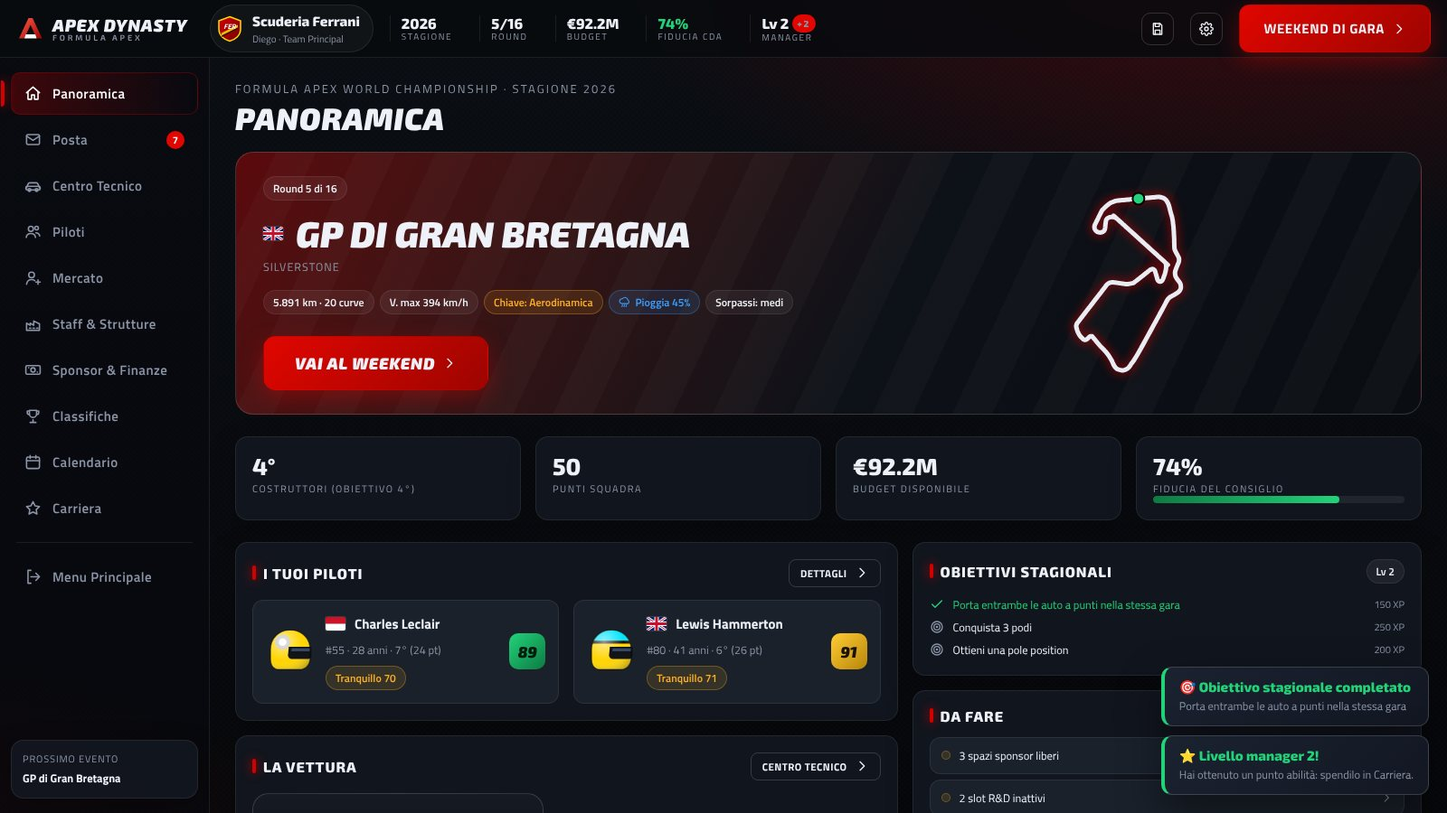
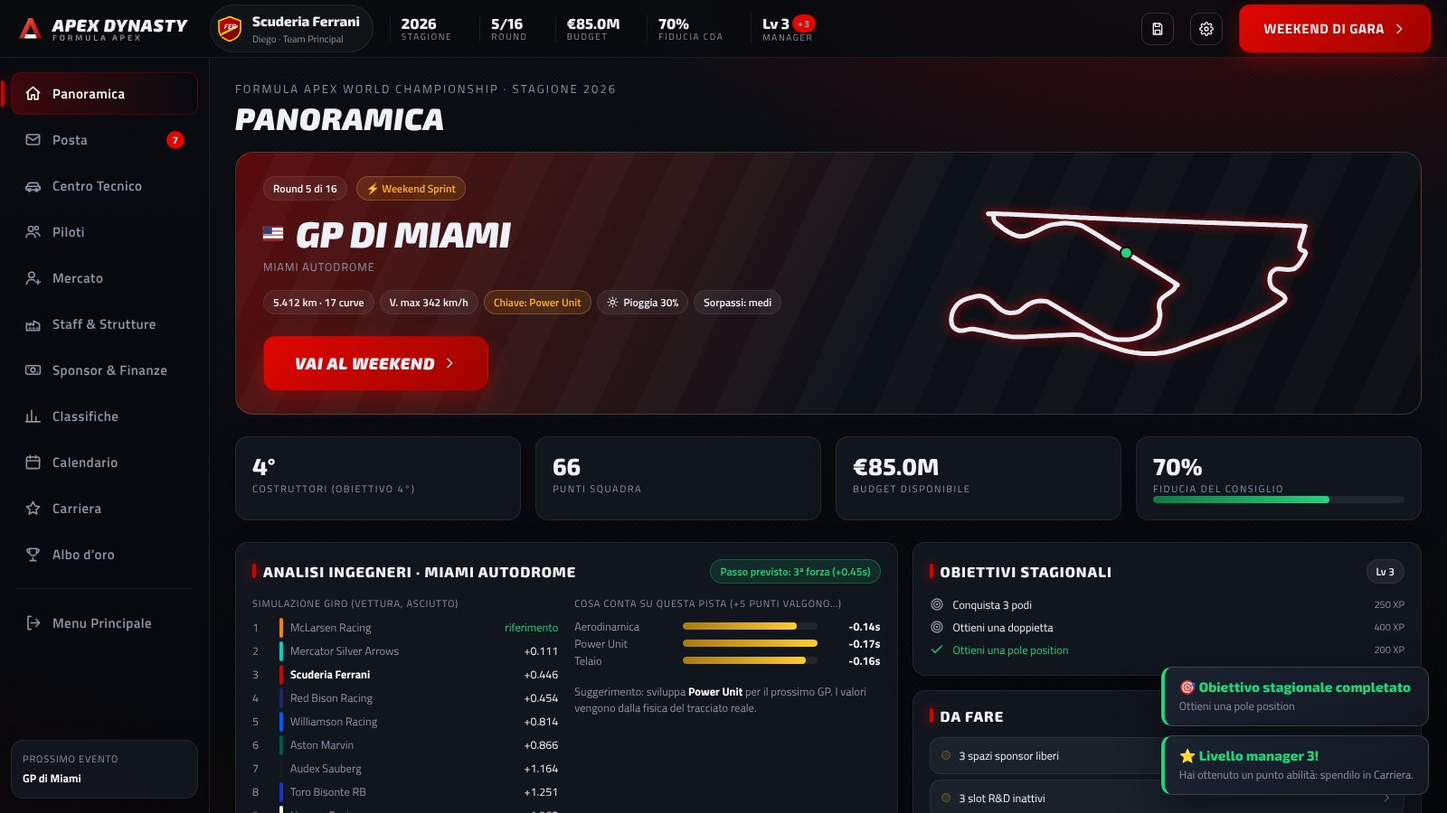
v3.0.0: grafica rifatta (HDRI, PBR, post-processing, nuove vetture), momenti chiave in gara, budget cap e galleria del vento, Formula Apex 2 e carriera dalla gavetta, render 3D nelle schermate
Claude-Session: https://claude.ai/code/session_016m2WYSifcgJTzz2tKjj853

diff --git a/src/screens/newgame.js b/src/screens/newgame.js
@@ -1,3 +1,4 @@
+import { carImg } from '../ui/garage3d.js';
 import { App, registerScreen } from '../app.js';
 import { icon } from '../ui/icons.js';
 import { carSVG, teamBadge, categoryArt, flagSVG, helmetSVG } from '../ui/art.js';
@@ -77,8 +78,8 @@ function step1() {
   return `<div class="cat-cards anim-in">${Object.values(CATEGORIES).map((c) => `
     <div class="cat-card ${W.cat === c.id ? 'sel' : ''}" style="--cc:${c.color}" data-a="pick-cat" data-id="${c.id}">
       <div class="art" style="padding-bottom:120px">${categoryArt(c.id)}</div>
-      <div class="cinfo"><div class="tiny upper" style="color:${c.color};letter-spacing:.25em;font-weight:700">${c.type === 'rally' ? 'Prove speciali' : c.id === 'endurance' ? 'Gare di durata' : 'Monoposto'}</div><h2>${c.name}</h2><div class="small muted mt8">${c.tagline}</div>
-      <div class="row mt16 small wrap" style="gap:6px"><span class="chip">${TEAMS[c.id].length} team</span><span class="chip">${c.cars} auto/team</span>${c.driversPerCar > 1 ? `<span class="chip">${c.driversPerCar} piloti/auto</span>` : ''}${c.refuel ? '<span class="chip">Rifornimenti</span>' : ''}${c.type === 'rally' ? '<span class="chip">Decisioni live</span>' : '<span class="chip">Strategia gomme</span>'}</div></div>
+      <div class="cinfo"><div class="tiny upper" style="color:${c.color};letter-spacing:.25em;font-weight:700">${c.id === 'junior' ? '★ Carriera dalla gavetta' : c.type === 'rally' ? 'Prove speciali' : c.id === 'endurance' ? 'Gare di durata' : 'Monoposto'}</div><h2>${c.name}</h2><div class="small muted mt8">${c.tagline}</div>
+      <div class="row mt16 small wrap" style="gap:6px">${c.id === 'junior' ? '<span class="chip good">Vinci per salire in Formula Apex</span>' : ''}<span class="chip">${TEAMS[c.id].length} team</span><span class="chip">${c.cars} auto/team</span>${c.driversPerCar > 1 ? `<span class="chip">${c.driversPerCar} piloti/auto</span>` : ''}${c.refuel ? '<span class="chip">Rifornimenti</span>' : ''}${c.type === 'rally' ? '<span class="chip">Decisioni live</span>' : '<span class="chip">Strategia gomme</span>'}</div></div>
     </div>`).join('')}</div>
     <div class="row mt24" style="justify-content:flex-end"><button class="btn primary xl" data-a="next">Scegli la squadra ${icon('right')}</button></div>`;
 }
@@ -92,15 +93,15 @@ function step2() {
     const [lab, cls] = teamStrengthLabel(sel, teams);
     preview = `<div class="panel glow" style="--team:${sel.colors[0] === '#f0f0f0' || sel.colors[0] === '#f2f2f2' || sel.colors[0] === '#f4f4f4' ? sel.colors[1] : sel.colors[0]}">
       <div class="row between"><div class="row">${teamBadge(sel, 46)}<div><h2>${sel.name}</h2><div class="small muted">${sel.hq} · Team Principal attuale: ${sel.principal}</div></div></div><span class="chip ${cls}">${lab}</span></div>
-      <div class="car-stage mt16" style="min-height:220px"><div class="grid-floor"></div>${carSVG(W.cat, { primary: sel.colors[0], secondary: sel.colors[1], accent: sel.colors[2], pattern: 1 }, { number: '', sponsor: sel.short })}</div>
+      <div class="car-stage mt16" style="min-height:220px"><div class="grid-floor"></div>${carImg(W.cat, { primary: sel.colors[0], secondary: sel.colors[1], accent: sel.colors[2], pattern: 1 }, { number: '', sponsor: sel.short })}</div>
       <div class="grid3 mt16"><div class="kpi"><b>${sel.base}</b><span>Valore vettura</span></div><div class="kpi"><b>€${sel.budget}M</b><span>Budget</span></div><div class="kpi"><b class="stars">${stars(sel.rep / 20)}</b><span>Prestigio</span></div></div>
-      <h3 class="mt16 mb8">Piloti</h3><div class="col" style="gap:6px">${sel.d.map((d) => `<div class="row small">${helmetSVG(null, 26)}${flagSVG(d[1])}<b>${d[0]}</b><span class="muted">${d[2]} anni</span><span class="grow"></span><span class="chip">Velocità ${d[3]}</span></div>`).join('')}</div>
+      <h3 class="mt16 mb8">Piloti</h3>${sel.gen ? '<div class="small muted">Giovani talenti generati all’inizio della carriera.</div>' : ''}<div class="col" style="gap:6px">${(sel.d || []).map((d) => `<div class="row small">${helmetSVG(null, 26)}${flagSVG(d[1])}<b>${d[0]}</b><span class="muted">${d[2]} anni</span><span class="grow"></span><span class="chip">Velocità ${d[3]}</span></div>`).join('')}</div>
     </div>`;
   } else if (W.team === 'custom') {
     const cu = W.custom;
     preview = `<div class="panel glow" style="--team:${cu.colors[0]}">
       <h2>Fonda la tua squadra</h2><div class="small muted">Prenderai il posto del team più debole, con budget ridotto. La vera sfida.</div>
-      <div class="car-stage mt16" style="min-height:200px"><div class="grid-floor"></div>${carSVG(W.cat, { primary: cu.colors[0], secondary: cu.colors[1], accent: cu.colors[2], pattern: cu.pattern }, { number: '', sponsor: cu.short })}</div>
+      <div class="car-stage mt16" style="min-height:200px"><div class="grid-floor"></div>${carImg(W.cat, { primary: cu.colors[0], secondary: cu.colors[1], accent: cu.colors[2], pattern: cu.pattern }, { number: '', sponsor: cu.short })}</div>
       <div class="grid2 mt16"><div class="col gap6"><label class="lbl">Nome squadra</label><input type="text" id="cname" value="${esc(cu.name)}" maxlength="26"></div><div class="col gap6"><label class="lbl">Sigla (3 lettere)</label><input type="text" id="cshort" value="${esc(cu.short)}" maxlength="3"></div></div>
       ${['Colore primario', 'Colore secondario', 'Dettagli'].map((lab, i) => `<div class="mt16"><label class="lbl">${lab}</label><div class="swatches mt8">${PALETTE.map((c) => `<div class="swatch ${cu.colors[i] === c ? 'sel' : ''}" style="background:${c}" data-a="c-color" data-i="${i}" data-c="${c}"></div>`).join('')}</div></div>`).join('')}
       <div class="mt16"><label class="lbl">Motivo livrea</label><div class="row wrap mt8 gap6">${PATTERNS.map((p, i) => `<button class="btn sm ${cu.pattern === i ? 'active' : ''}" data-a="c-pattern" data-p="${i}">${p}</button>`).join('')}</div></div>

diff --git a/site-src/index.html b/site-src/index.html
@@ -6,7 +6,7 @@
 <title>Apex Dynasty — Motorsport Manager</title>
 <meta name="description" content="Apex Dynasty: il gestionale motorsport multi-categoria. Guida la tua scuderia in Formula, Rally ed Endurance. Gratis per macOS (Apple Silicon e Intel), Windows e browser.">
 <meta property="og:title" content="Apex Dynasty — Motorsport Manager">
-<meta property="og:description" content="Formula · Rally · Endurance. Progetta l'auto, gestisci piloti e strategie, vinci il titolo.">
+<meta property="og:description" content="Formula · F2 · Rally · Endurance. Progetta l'auto, gestisci piloti e strategie, vinci il titolo.">
 <meta property="og:image" content="shots/race.jpg">
 <link rel="icon" href="icon.svg" type="image/svg+xml">
 <link rel="preconnect" href="https://fonts.googleapis.com">
@@ -86,15 +86,19 @@ footer { border-top:1px solid var(--line); padding:40px 0; color:var(--muted); f
     <h1 class="title">Apex<span>Dynasty</span></h1>
     <p class="lead">Diventa Team Principal e ingegnere di pista. <b>Circuiti reali</b>, fisica del giro, degrado gomme realistico e gare in <b>3D</b> o sulla mappa 2D. Costruisci una dinastia in <b>Formula</b>, <b>Rally</b> ed <b>Endurance</b>.</p>
     <div class="cta"><a class="btn red" href="#download">⬇ Scarica gratis</a><a class="btn" href="play/">▶ Gioca nel browser</a></div>
-    <div class="badges"><span class="badge">macOS Apple Silicon</span><span class="badge">macOS Intel</span><span class="badge">Windows 10/11</span><span class="badge">Linux</span><span class="badge">Browser</span><span class="badge">v2.3: 3D · circuiti reali · ERS · radio · sfide · musica</span></div>
+    <div class="badges"><span class="badge">macOS Apple Silicon</span><span class="badge">macOS Intel</span><span class="badge">Windows 10/11</span><span class="badge">Linux</span><span class="badge">Browser</span><span class="badge">v3.0: nuova grafica · momenti chiave · budget cap · Formula Apex 2</span></div>
   </div>
   <div class="hero-shot"><img src="shots/race.jpg" alt="Gara in diretta"></div>
 </div></header>
 
 <section id="novita" style="padding-top:40px"><div class="wrap">
-  <h2 class="sec-title">Versione 2.3</h2>
-  <p class="sec-sub">Un aggiornamento enorme: tutto quello che serve a un gestionale motorsport di livello.</p>
+  <h2 class="sec-title">Versione 3.0</h2>
+  <p class="sec-sub">Grafica rifatta da zero e un gioco molto più profondo e difficile.</p>
   <div class="features">
+    <div class="feat"><div class="ic">✨</div><b>Grafica rifatta</b><p>Cielo fotografico HDRI, asfalto, erba e sterrato con texture reali, riflessi, bloom e antialiasing. Monoposto, hypercar e auto da rally rimodellate con livree dipinte, numeri e sponsor.</p></div>
+    <div class="feat"><div class="ic">⏸</div><b>Momenti chiave</b><p>Safety car, pioggia, undercut del rivale, duelli: la gara si ferma e tocca a te decidere. Ogni scelta cambia davvero il risultato.</p></div>
+    <div class="feat"><div class="ic">💶</div><b>Budget cap e galleria del vento</b><p>Tetto di spesa sullo sviluppo, ore di galleria in base alla classifica e la scelta tra la vettura di quest'anno e quella del prossimo.</p></div>
+    <div class="feat"><div class="ic">🎓</div><b>Formula Apex 2</b><p>Nuova categoria junior con 10 team e giovani talenti. Inizia dalla gavetta: vinci il titolo per salire in Formula Apex.</p></div>
     <div class="feat"><div class="ic">🗺</div><b>24 circuiti reali</b><p>Geometria reale di Monza, Spa, Suzuka, Silverstone, Monaco, Interlagos, Las Vegas, Madring… più la Sarthe e il Fuji per l'Endurance. Lunghezze e tempi sul giro reali.</p></div>
     <div class="feat"><div class="ic">⚙</div><b>Fisica del giro</b><p>Velocità in curva dal raggio, carico aerodinamico, grip meccanico, potenza e resistenza. Monza premia il motore, Monaco il carico: la sensibilità di ogni pista è calcolata.</p></div>
     <div class="feat"><div class="ic">🎥</div><b>Gare in 3D e 2D</b><p>Telecamere TV, camera car, onboard ed elicottero. Pioggia, notte dinamica, cordoli e vie di fuga. Oppure la mappa 2D con telemetria.</p></div>

diff --git a/src/ui/garage3d.js b/src/ui/garage3d.js
@@ -58,3 +58,41 @@ export class Garage3D {
   }
   destroy() { cancelAnimationFrame(this.raf); this._ro?.disconnect(); this.renderer.dispose(); this.renderer.domElement.remove(); }
 }
+
+// ---- Static 3D renders of cars for UI cards (cached data URLs) ----
+let snapR = null, snapScene = null, snapCam = null;
+const snapCache = new Map();
+export function carSnapshot(category, livery, opts = {}, w = 640, h = 300) {
+  const key = [category, livery.primary, livery.secondary, livery.accent, livery.pattern, opts.number, opts.sponsor, opts.helmet, w, h, opts.angle].join('|');
+  if (snapCache.has(key)) return snapCache.get(key);
+  try {
+    if (!snapR) {
+      snapR = new THREE.WebGLRenderer({ antialias: true, alpha: true, preserveDrawingBuffer: true });
+      snapR.toneMapping = THREE.ACESFilmicToneMapping; snapR.outputColorSpace = THREE.SRGBColorSpace;
+      snapR.shadowMap.enabled = true;
+      snapScene = new THREE.Scene();
+      const pm = new THREE.PMREMGenerator(snapR); snapScene.environment = pm.fromScene(new RoomEnvironment(), 0.04).texture; snapScene.environmentIntensity = 0.85;
+      const key2 = new THREE.DirectionalLight(0xffffff, 2.2); key2.position.set(4, 8, 6); key2.castShadow = true; key2.shadow.mapSize.set(1024, 1024);
+      const sc = key2.shadow.camera; sc.left = -5; sc.right = 5; sc.top = 5; sc.bottom = -5;
+      snapScene.add(key2, new THREE.HemisphereLight(0xdde6ff, 0x222428, 0.5));
+      const sh = new THREE.Mesh(new THREE.PlaneGeometry(20, 20), new THREE.ShadowMaterial({ opacity: 0.45 })); sh.rotation.x = -Math.PI / 2; sh.receiveShadow = true; snapScene.add(sh);
+      snapCam = new THREE.PerspectiveCamera(30, 1, 0.1, 100);
+    }
+    snapR.setPixelRatio(Math.min(2, window.devicePixelRatio || 1));
+    snapR.setSize(w, h, false);
+    const car = buildCar(category, livery, opts);
+    snapScene.add(car);
+    const a = opts.angle ?? -0.75, d = (category === 'rally' ? 5.4 : category === 'endurance' ? 6.2 : 6.6) * (w / h < 1.8 ? 1.2 : 1);
+    snapCam.aspect = w / h; snapCam.updateProjectionMatrix();
+    snapCam.position.set(Math.cos(a) * d, d * 0.26, Math.sin(a) * d * -1); snapCam.lookAt(0, 0.45, 0);
+    snapR.render(snapScene, snapCam);
+    const url = snapR.domElement.toDataURL('image/png');
+    snapScene.remove(car);
+    snapCache.set(key, url);
+    return url;
+  } catch (e) { console.warn('snapshot', e); return null; }
+}
+export function carImg(category, livery, opts = {}, w = 640, h = 300, fallback = '') {
+  const url = carSnapshot(category, livery, opts, w, h);
+  return url ? `<img src="${url}" alt="" style="width:100%;display:block;position:relative;z-index:1;filter:drop-shadow(0 14px 16px rgba(0,0,0,.45))">` : fallback;
+}

diff --git a/src/data/teams.js b/src/data/teams.js
@@ -10,6 +10,18 @@ export const ENGINE_SUPPLIERS = [
 ];
 
 export const TEAMS = {
+  junior: [
+    { id: 'premia', name: 'Premia Racing', short: 'PRE', colors: ['#d10a11', '#111111', '#ffffff'], rep: 62, budget: 16, base: 82, bias: { aero: 1, chassis: 1 }, principal: 'Renè Rosina', hq: 'Grisignano, ITA', gen: 1 },
+    { id: 'arte', name: 'ARTE Grand Prix', short: 'ART', colors: ['#111111', '#ffffff', '#e10600'], rep: 60, budget: 15, base: 81, bias: { engine: 1 }, principal: 'Sébastien Philippon', hq: 'Villeneuve, FRA', gen: 1 },
+    { id: 'camposol', name: 'Camposol Racing', short: 'CAM', colors: ['#f2c500', '#0b2a6b', '#ffffff'], rep: 56, budget: 13, base: 80, bias: { tyre: 1 }, principal: 'Adriano Campos', hq: 'Valencia, ESP', gen: 1 },
+    { id: 'hitec', name: 'HiTec Pulse-8', short: 'HIT', colors: ['#ffffff', '#1e1e1e', '#e10600'], rep: 57, budget: 14, base: 80.5, bias: { aero: 1 }, principal: 'Oliver Oakes', hq: 'Silverstone, GBR', gen: 1 },
+    { id: 'mpx', name: 'MPX Motorsport', short: 'MPX', colors: ['#ff6a00', '#111111', '#ffffff'], rep: 52, budget: 12, base: 79.5, bias: { reliability: 1 }, principal: 'Sander Dorsman', hq: 'Westmaas, NED', gen: 1 },
+    { id: 'damas', name: 'DAMAS Lucas Oil', short: 'DAM', colors: ['#003b7a', '#00a3e0', '#ffffff'], rep: 52, budget: 12, base: 79, bias: { chassis: 1 }, principal: 'François Sicard', hq: 'Le Mans, FRA', gen: 1 },
+    { id: 'invicto', name: 'Invicto Virtuosi', short: 'INV', colors: ['#0b0b0b', '#c9a227', '#ffffff'], rep: 55, budget: 13, base: 80, bias: {}, principal: 'Darren Butler', hq: 'Leeds, GBR', gen: 1 },
+    { id: 'rodan', name: 'Rodan Motorsport', short: 'ROD', colors: ['#1a1a1a', '#00e0b0', '#ffffff'], rep: 48, budget: 11, base: 78.5, bias: { engine: 1 }, principal: 'Tim Rodan', hq: 'Christchurch, NZL', gen: 1 },
+    { id: 'tridente', name: 'Tridente', short: 'TRI', colors: ['#0a1f44', '#e30613', '#ffffff'], rep: 46, budget: 10, base: 78, bias: {}, principal: 'Giacomo Ricci', hq: 'Mantova, ITA', gen: 1 },
+    { id: 'amersford', name: 'Van Amersford Racing', short: 'VAR', colors: ['#ff4f00', '#ffffff', '#111111'], rep: 44, budget: 10, base: 77.5, bias: { tyre: -1 }, principal: 'Frits van Amersford', hq: 'Huizen, NED', gen: 1 },
+  ],
   formula: [
     { id: 'ferrani', name: 'Scuderia Ferrani', short: 'FER', colors: ['#d40000', '#ffdd00', '#111111'], engine: 'ferrani', works: true, rep: 96, budget: 150, base: 87, bias: { aero: -1, engine: 1, chassis: 1, tyre: -1, reliability: 1 }, principal: 'Federico Vasseur', hq: 'Maranello, ITA',
       d: [['Charles Leclair', 'MON', 28, 93, 85, 89, 88, 84, 80, 94], ['Lewis Hammerton', 'GBR', 41, 90, 90, 93, 95, 90, 99, 90]] },

diff --git a/src/screens/weekend.js b/src/screens/weekend.js
@@ -330,7 +330,7 @@ function mountRace() {
   if (isSprint) R.sim.log('⚡ SPRINT: gara breve, punti ai primi 8 (8-7-6-5-4-3-2-1).', 'start', null, true);
   for (const c of R.sim.cars) if (c.isPlayer) { c.tyre = w.startTyre[c.key] || c.tyre; c.compoundsUsed = new Set([c.tyre]); c.plan = !isSprint && w.plans?.[c.key] ? w.plans[c.key].map((x) => ({ ...x })) : null; c.planIdx = 0; c.lapTarget = R.sim.computeLap(c); R.pitSel[c.key] = defaultPitTyre(c); }
   R.speed = getSettings().raceSpeed || 8; R.paused = true; R.feedN = 0; R.done = false; R.swap = {};
-  R.view = new TrackView(document.getElementById('race-cv'), circuitPath(tr.cid), { pad: 50, padTop: 40, glow: 'rgba(255,255,255,0.12)', sectors: true, drs: st.category === 'formula' ? drsZones('formula', tr) : [] });
+  R.view = new TrackView(document.getElementById('race-cv'), circuitPath(tr.cid), { pad: 50, padTop: 40, glow: 'rgba(255,255,255,0.12)', sectors: true, drs: st.category === 'formula' || st.category === 'junior' ? drsZones('formula', tr) : [] });
   R.last = performance.now(); R.uiT = 0;
   R.focus = R.sim.cars.find((c) => c.isPlayer)?.key;
   R.view3d = getSettings().view3d !== false && webglAvailable() ? (R.cam || 'auto') : null;
@@ -556,7 +556,7 @@ function engineerAdvice(sim, c) {
     if (left <= 4) return { text: `Piano: sosta tra ${left} giri (${COMPOUNDS[c.plan[c.planIdx + 1].c].name}). Valuta l’undercut sul rivale davanti.` };
   }
   if (c.wear > 0.75 && lapsLeft > 3) return { text: 'Usura alta: siamo vicini al cliff, finestra di pit aperta.' };
-  if (Math.abs(c.temp - (sim.cat === 'formula' ? { soft: 95, medium: 103, hard: 111 }[c.tyre] || 80 : 100)) > 14 && !comp.wet) return { text: c.temp < 90 ? 'Gomme fredde: spingi un po’ per portarle in temperatura.' : 'Gomme surriscaldate: passa in Gestione per qualche giro.' };
+  if (Math.abs(c.temp - (sim.cat !== 'endurance' ? { soft: 95, medium: 103, hard: 111 }[c.tyre] || 80 : 100)) > 14 && !comp.wet) return { text: c.temp < 90 ? 'Gomme fredde: spingi un po’ per portarle in temperatura.' : 'Gomme surriscaldate: passa in Gestione per qualche giro.' };
   if (c.drs) return { text: 'DRS disponibile: siamo entro un secondo, attacca!' };
   return null;
 }
@@ -649,7 +649,7 @@ function finishRace() {
 }
 
 function strategyPanel(st, w, tr, entries, q, C) {
-  const dry = w.weather.plan[0] <= 0.2 && C.id === 'formula';
+  const dry = w.weather.plan[0] <= 0.2 && (C.id === 'formula' || C.id === 'junior');
   w.plans = w.plans || {};
   const team = playerTeam(st);
   let html = `<div class="panel"><div class="panel-head"><h3>Strategia</h3><button class="btn sm ghost" data-a="lessons">${icon('info')} Lezioni</button></div>`;

diff --git a/src/screens/hub.js b/src/screens/hub.js
@@ -1,3 +1,4 @@
+import { carImg } from '../ui/garage3d.js';
 import { App, registerScreen } from '../app.js';
 import { icon } from '../ui/icons.js';
 import { carSVG, flagSVG, helmetSVG, trackSVG, teamBadge } from '../ui/art.js';
@@ -87,7 +88,7 @@ registerScreen({
               <div class="grid2">${myDrivers.map((d) => { const p = s.drivers.findIndex((x) => x.id === d.id) + 1; const pts = s.drivers.find((x) => x.id === d.id)?.pts || 0; return `<div class="card row" style="gap:12px">${helmetSVG(d.helmet, 54)}<div class="grow"><div class="row">${flagSVG(d.nat)}<b>${esc(d.name)}</b></div><div class="small muted mt8">#${d.number} · ${d.age} anni · ${p}° (${pts} pt)</div><div class="mt8">${moraleChip(d.morale)}</div></div>${ratingBox(ovr(st, d), false)}</div>`; }).join('') || '<div class="muted">Nessun pilota</div>'}</div>
             </div>
             <div class="panel"><div class="panel-head"><h3>La vettura</h3><button class="btn sm ghost" data-a="nav" data-to="car">Centro Tecnico ${icon('right')}</button></div>
-              <div style="display:grid;grid-template-columns:1fr 1.1fr;gap:18px;align-items:center"><div class="car-stage" style="min-height:160px"><div class="grid-floor"></div>${carSVG(st.category, t.car.livery, { number: myDrivers[0]?.number, sponsor: t.sponsors[0]?.name, helmet: myDrivers[0]?.helmet.c1 })}</div><div class="col gap6">${parts}</div></div>
+              <div style="display:grid;grid-template-columns:1fr 1.1fr;gap:18px;align-items:center"><div class="car-stage" style="min-height:160px"><div class="grid-floor"></div>${carImg(st.category, t.car.livery, { number: myDrivers[0]?.number, sponsor: t.sponsors[0]?.name, helmet: myDrivers[0]?.helmet.c1 })}</div><div class="col gap6">${parts}</div></div>
               ${t.projects.length ? `<div class="row wrap mt16 gap6">${t.projects.map((p) => `<span class="chip info">${icon('rd', 'ico', 'style="width:13px"')} ${partName(st, p.part)} · ${RD_TIERS[p.tier].name} · ${p.racesLeft} ${p.racesLeft === 1 ? 'evento' : 'eventi'}</span>`).join('')}</div>` : ''}
             </div>
           </div>

diff --git a/src/engine/world.js b/src/engine/world.js
@@ -105,7 +105,7 @@ export function buildCalendar(cat, length) {
   if (n >= all.length) chosen = all.slice();
   else {
     // keep calendar order but pick subset (always keep iconic events)
-    const iconic = new Set(['mon', 'ita', 'gbr', 'bel', 'lem', 'mc', 'fin', 'swe', 'abu']);
+    const iconic = new Set(['mon', 'ita', 'gbr', 'bel', 'lem', 'mc', 'fin', 'swe', 'abu', 'bhr']);
     const must = all.filter((t) => iconic.has(t.id));
     const rest = shuffle(all.filter((t) => !iconic.has(t.id))).slice(0, Math.max(0, n - must.length));
     const set = new Set([...must, ...rest].map((t) => t.id));
@@ -113,7 +113,7 @@ export function buildCalendar(cat, length) {
   }
   return chosen.map((t, i) => {
     const ev = { trackId: t.id, round: i + 1, done: false, weather: null, results: null };
-    if (cat === 'formula' && ['chn', 'mia', 'can', 'gbr', 'ned', 'sgp'].includes(t.id)) ev.sprint = true;
+    if ((cat === 'formula' && ['chn', 'mia', 'can', 'gbr', 'ned', 'sgp'].includes(t.id)) || cat === 'junior') ev.sprint = true;
     if (cat === 'rally') {
       const r = mulberry32(t.seed + i);
       const names = shuffle(STAGE_NAMES);
@@ -186,7 +186,10 @@ export function createWorld({ playerName, category, teamId, difficulty, seasonLe
   for (const td of teamsData) {
     const t = teamFromData(td, cat, difficulty, td.id === teamId);
     state.teams[t.id] = t;
-    for (const dd of td.d) {
+    if (td.gen && !(td.d && td.d.length)) {
+      for (let k = 0; k < 2; k++) { const d = generateRookie(cat, 1.03); d.teamId = t.id; d.contract = randInt(1, 2); d.salary = salaryFor(d, cat); d.number = nextNumber(); state.drivers[d.id] = d; t.drivers.push(d.id); }
+    }
+    for (const dd of td.d || []) {
       const d = makeDriver(dd);
       d.teamId = t.id; d.contract = randInt(1, 3); d.salary = salaryFor(d, cat); d.number = nextNumber();
       state.drivers[d.id] = d; t.drivers.push(d.id);

diff --git a/src/screens/results.js b/src/screens/results.js
@@ -1,3 +1,4 @@
+import { carImg } from '../ui/garage3d.js';
 import { App, registerScreen, trackName } from '../app.js';
 import { icon } from '../ui/icons.js';
 import { helmetSVG, flagSVG, teamBadge, carSVG } from '../ui/art.js';
@@ -42,7 +43,7 @@ registerScreen({
     const rally = st.category === 'rally';
     const pod = (r, cls) => {
       const d = st.drivers[r.driverIds[0]]; const tm = st.teams[r.teamId];
-      return `<div class="pd ${cls}"><div>${helmetSVG(d.helmet, 70)}</div><div style="font-weight:800;margin-top:6px">${esc(r.driverIds.map((id) => st.drivers[id].name).join(' / '))}</div><div class="small muted mb8">${esc(tm.name)}</div><div style="padding:0 10px;margin-bottom:-8px;position:relative;z-index:1">${carSVG(st.category, tm.car.livery, { number: d.number, sponsor: tm.sponsors[0]?.name })}</div><div class="block">${r.pos}</div></div>`;
+      return `<div class="pd ${cls}"><div>${helmetSVG(d.helmet, 70)}</div><div style="font-weight:800;margin-top:6px">${esc(r.driverIds.map((id) => st.drivers[id].name).join(' / '))}</div><div class="small muted mb8">${esc(tm.name)}</div><div style="padding:0 10px;margin-bottom:-8px;position:relative;z-index:1">${carImg(st.category, tm.car.livery, { number: d.number, sponsor: tm.sponsors[0]?.name })}</div><div class="block">${r.pos}</div></div>`;
     };
     const mine = res.classification.filter((r) => r.teamId === pt.id);
     return `<div style="position:fixed;inset:0;overflow-y:auto;padding:30px 40px">

diff --git a/src/data/categories.js b/src/data/categories.js
@@ -2,6 +2,31 @@
 export const POINTS_STD = [25, 18, 15, 12, 10, 8, 6, 4, 2, 1];
 
 export const CATEGORIES = {
+  junior: {
+    id: 'junior',
+    name: 'Formula Apex 2',
+    full: 'Formula Apex 2 Championship',
+    tagline: 'La scuola dei campioni: monoposto identiche, giovani talenti, il trampolino verso la Formula Apex.',
+    type: 'circuit',
+    cars: 2, driversPerCar: 1,
+    color: '#3aa0ff',
+    icon: 'formula',
+    parts: [
+      { id: 'aero', name: 'Assetto Aero', desc: 'Regolazioni e flap' },
+      { id: 'engine', name: 'Motore', desc: 'Mappatura e manutenzione' },
+      { id: 'chassis', name: 'Telaio', desc: 'Sospensioni e bilanciamento' },
+      { id: 'tyre', name: 'Gestione Gomme', desc: 'Degrado e finestra di utilizzo' },
+      { id: 'reliability', name: 'Affidabilità', desc: 'Rischio di guasti meccanici' },
+    ],
+    baseLap: 95, lapsDefault: 20, pitLoss: 22, refuel: false, swaps: false,
+    compounds: ['soft', 'medium', 'hard', 'wet'],
+    budgetScale: 0.12, prizeTop: 3, prizeStep: 0.25,
+    concepts: [
+      { id: 'balanced', name: 'Standard', desc: 'L’assetto di base fornito dal costruttore.', mods: {} },
+      { id: 'downforce', name: 'Carico', desc: '+Aero, meno velocità di punta.', mods: { aero: 3, engine: -3 } },
+      { id: 'lowdrag', name: 'Scarico', desc: '+Velocità, soffre nel misto.', mods: { engine: 3, aero: -3 } },
+    ],
+  },
   formula: {
     id: 'formula',
     name: 'Formula Apex',

diff --git a/src/engine/race.js b/src/engine/race.js
@@ -526,7 +526,7 @@ export class CircuitSim {
     // finish
     if (this.leaderFinished || c.lap >= this.laps) {
       if (!this.leaderFinished) { this.leaderFinished = true; this.log(`🏁 ${this.driver(c).name} taglia per primo il traguardo!`, 'finish', c.key, true); }
-      if (this.C.id === 'formula' && !this.weather.isRain && [...c.compoundsUsed].filter((x) => !COMPOUNDS[x].wet).length < 2) {
+      if ((this.C.id === 'formula' || this.C.id === 'junior') && !this.weather.isRain && [...c.compoundsUsed].filter((x) => !COMPOUNDS[x].wet).length < 2) {
         c.penalty += 10; this.log(`⚖ ${this.driver(c).name}: +10s di penalità (una sola mescola utilizzata)`, 'warn', c.key, c.isPlayer);
       }
       c.status = 'finished'; c.finishTime = crossT + c.penalty; c.finishLap = c.lap;
@@ -645,7 +645,7 @@ export class CircuitSim {
       const gapS = gap * this.track.lap;
       b.gapAhead = gapS;
       const wasDrs = b.drs, wasDirty = b.dirty;
-      b.drs = this.C.id === 'formula' && gapS < 1 && b.lap >= 2 && rain < 0.2 && !this.sc && !this.vsc;
+      b.drs = (this.C.id === 'formula' || this.C.id === 'junior') && gapS < 1 && b.lap >= 2 && rain < 0.2 && !this.sc && !this.vsc;
       b.dirty = gapS < 1.6 && !this.sc && !this.vsc;
       if (b.auto && !b.noErs && !this.sc && !this.vsc) {
         const want = (gapS < 0.7 && b.ers > 35) ? 'deploy' : b.ers < 20 ? 'harvest' : (gapS > 4 && b.ers < 45) ? 'harvest' : 'balanced';

diff --git a/src/screens/car.js b/src/screens/car.js
@@ -1,3 +1,4 @@
+import { carImg } from '../ui/garage3d.js';
 import { App, registerScreen, coach } from '../app.js';
 import { icon } from '../ui/icons.js';
 import { carSVG, teamBadge } from '../ui/art.js';
@@ -133,7 +134,7 @@ function designTab(st, t, C) {
       <label class="lbl mt16" style="display:block">Dettagli</label>${sw('accent')}
       <label class="lbl mt16" style="display:block">Motivo</label>
       <div class="row wrap gap6 mt8">${PATTERNS.map((p, i) => `<button class="btn sm ${L.pattern === i ? 'active' : ''}" data-a="pattern" data-p="${i}">${p}</button>`).join('')}</div>
-      <div class="grid3 mt16">${PATTERNS.map((p, i) => `<div class="card click ${L.pattern === i ? 'sel' : ''}" data-a="pattern" data-p="${i}" style="padding:6px">${carSVG(st.category, { ...L, pattern: i }, { number: '' })}</div>`).join('')}</div>
+      <div class="grid3 mt16">${PATTERNS.map((p, i) => `<div class="card click ${L.pattern === i ? 'sel' : ''}" data-a="pattern" data-p="${i}" style="padding:6px">${carImg(st.category, { ...L, pattern: i }, { number: '' })}</div>`).join('')}</div>
     </div>
   </div>`;
 }

diff --git a/src/engine/season.js b/src/engine/season.js
@@ -518,7 +518,14 @@ export function jobOffers(state) {
     const others = pool.filter((t) => t.id !== state.playerTeam || catId !== state.category);
     let suitable = others.filter((t) => t.rep <= rep + 30 + (catId !== state.category ? 10 : 0));
     if (suitable.length < 2) suitable = others.slice().sort((a, b) => a.rep - b.rep).slice(0, 2);
-    const chosen = shuffle(suitable).slice(0, 2);
+    let chosen = shuffle(suitable).slice(0, 2);
+    // career ladder: a strong Formula Apex 2 season earns a seat in Formula Apex
+    if (catId === 'formula' && state.category === 'junior') {
+      const myPos = state.career.history[state.career.history.length - 1]?.pos || 99;
+      const low = others.slice().sort((a, b) => a.rep - b.rep);
+      chosen = myPos === 1 ? low.slice(0, 3) : myPos <= 3 ? low.slice(0, 1) : [];
+    }
+    if (catId === 'junior' && state.category === 'formula') chosen = [];
     for (const t of chosen) offers.push({ category: catId, teamId: t.id, name: t.name, colors: t.colors, rep: t.rep });
   }
   return offers;
